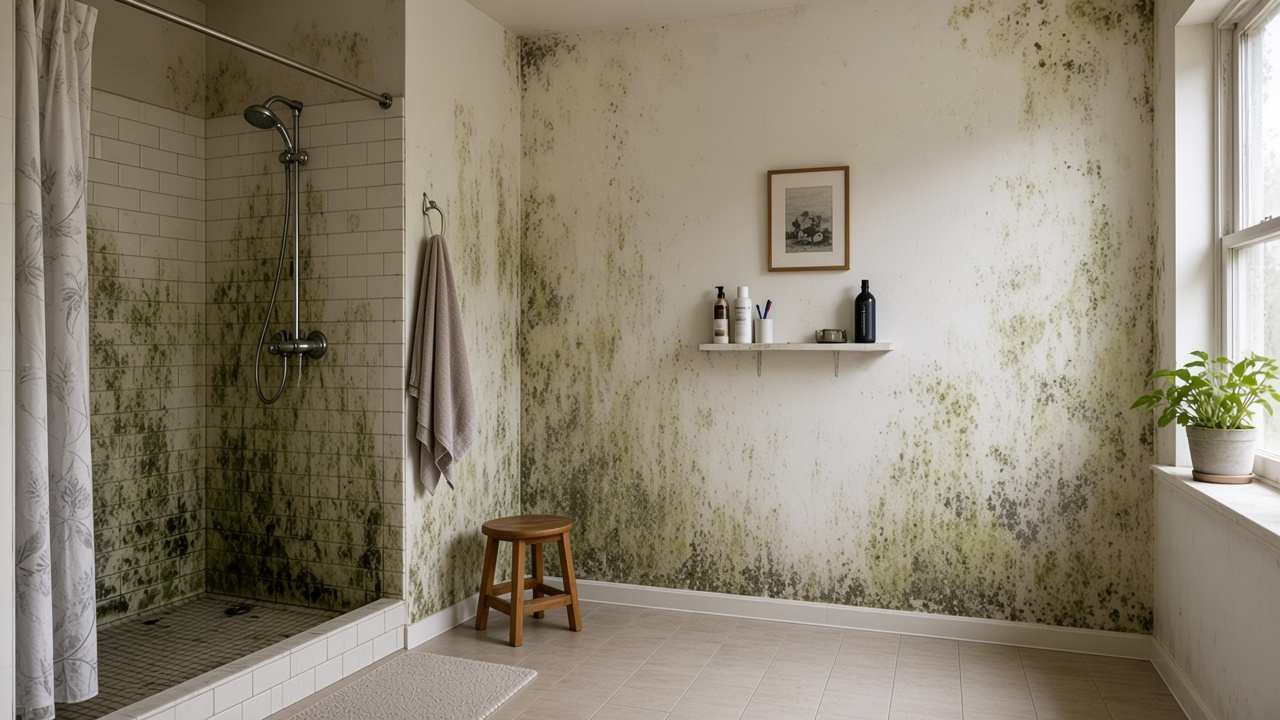
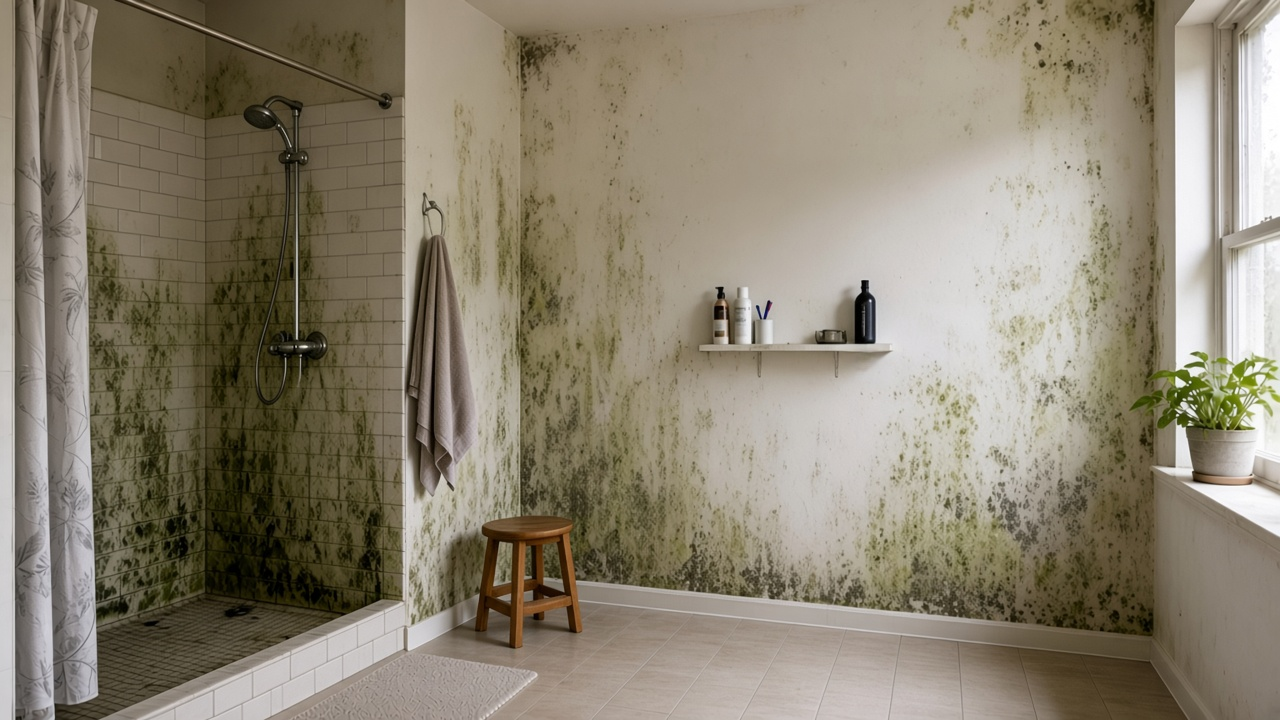
Wash the Welcome wall instead of glowing the copy, drop the framed print from the background, and even out the hero tags on phones.

diff --git a/freshguardnewdesign/assets/css/main.css b/freshguardnewdesign/assets/css/main.css
@@ -282,7 +282,15 @@
     .about {
       position: relative;
       overflow: hidden;
-      background: url("../images/fg2-welcome-bg.jpg") 72% center / cover no-repeat;
+      background: url("../images/fg2-welcome-bg.jpg?v=2") 72% center / cover no-repeat;
+    }
+    .about::before {
+      content: "";
+      position: absolute;
+      inset: 0;
+      background: rgba(255, 255, 255, 0.42);
+      pointer-events: none;
+      z-index: 0;
     }
     .about-grid {
       position: relative;
@@ -308,11 +316,7 @@
     }
     .about-media img { width: 100%; height: 100%; object-fit: cover; }
     .about-copy {
-      filter:
-        drop-shadow(0 0 1px #fff)
-        drop-shadow(0 0 6px #fff)
-        drop-shadow(0 0 16px #fff)
-        drop-shadow(0 0 28px rgba(255,255,255,.95));
+      max-width: none;
     }
     .about-copy h2 {
       font-size: clamp(32px, 4vw, 44px);
@@ -1114,7 +1118,20 @@
       .hero p { font-size: 15px; margin-bottom: 22px; }
       .hero-actions { gap: 10px; }
       .hero-actions .btn { width: 100%; }
-      .tags { gap: 6px; }
+      .tags {
+        display: grid;
+        grid-template-columns: 1fr 1fr;
+        gap: 8px;
+        width: 100%;
+      }
+      .tag {
+        width: 100%;
+        box-sizing: border-box;
+        display: flex;
+        align-items: center;
+        justify-content: center;
+        text-align: center;
+      }
 
       .stats { padding: 24px 0 28px; }
       .stats-row { grid-template-columns: 1fr; gap: 12px; }

diff --git a/freshguard.html b/freshguard.html
@@ -293,7 +293,15 @@
     .about {
       position: relative;
       overflow: hidden;
-      background: url("assets/fg2-welcome-bg.jpg") 72% center / cover no-repeat;
+      background: url("assets/fg2-welcome-bg.jpg?v=2") 72% center / cover no-repeat;
+    }
+    .about::before {
+      content: "";
+      position: absolute;
+      inset: 0;
+      background: rgba(255, 255, 255, 0.42);
+      pointer-events: none;
+      z-index: 0;
     }
     .about-grid {
       position: relative;
@@ -319,11 +327,7 @@
     }
     .about-media img { width: 100%; height: 100%; object-fit: cover; }
     .about-copy {
-      filter:
-        drop-shadow(0 0 1px #fff)
-        drop-shadow(0 0 6px #fff)
-        drop-shadow(0 0 16px #fff)
-        drop-shadow(0 0 28px rgba(255,255,255,.95));
+      max-width: none;
     }
     .about-copy h2 {
       font-size: clamp(32px, 4vw, 44px);
@@ -1125,7 +1129,20 @@
       .hero p { font-size: 15px; margin-bottom: 22px; }
       .hero-actions { gap: 10px; }
       .hero-actions .btn { width: 100%; }
-      .tags { gap: 6px; }
+      .tags {
+        display: grid;
+        grid-template-columns: 1fr 1fr;
+        gap: 8px;
+        width: 100%;
+      }
+      .tag {
+        width: 100%;
+        box-sizing: border-box;
+        display: flex;
+        align-items: center;
+        justify-content: center;
+        text-align: center;
+      }
 
       .stats { padding: 24px 0 28px; }
       .stats-row { grid-template-columns: 1fr; gap: 12px; }

diff --git a/freshguardnewdesign/assets/css/wp-fix.css b/freshguardnewdesign/assets/css/wp-fix.css
@@ -131,6 +131,18 @@ html body.theme-freshguard-new .stat strong {
   font-weight: 700 !important;
 }
 
+html body.theme-freshguard-new .about::before {
+  content: "" !important;
+  position: absolute !important;
+  inset: 0 !important;
+  background: rgba(255, 255, 255, 0.42) !important;
+  pointer-events: none !important;
+  z-index: 0 !important;
+}
+html body.theme-freshguard-new .about-copy {
+  filter: none !important;
+}
+
 .site,
 .site-content,
 #content,
@@ -456,6 +468,21 @@ html body.theme-freshguard-new article.art img {
   html body.theme-freshguard-new .logo img {
     height: 40px !important;
     max-height: 40px !important;
+  }
+  html body.theme-freshguard-new .tags {
+    display: grid !important;
+    grid-template-columns: 1fr 1fr !important;
+    gap: 8px !important;
+    width: 100% !important;
+  }
+  html body.theme-freshguard-new .tag,
+  html body.theme-freshguard-new .hero .tag {
+    width: 100% !important;
+    box-sizing: border-box !important;
+    display: flex !important;
+    align-items: center !important;
+    justify-content: center !important;
+    text-align: center !important;
   }
   html body.theme-freshguard-new .service-grid,
   html body.theme-freshguard-new .art-grid,

diff --git a/freshguardnewdesign/style.css b/freshguardnewdesign/style.css
@@ -3,7 +3,7 @@ Theme Name: FreshGuard New Design
 Theme URI: https://en.freshguard.nl/
 Author: FreshGuard
 Description: Exact WordPress/Elementor copy of freshguard.html — lime palette, problem-focused images, matching layout, motion, and responsiveness.
-Version: 1.0.22
+Version: 1.0.25
 Requires at least: 6.0
 Requires PHP: 7.4
 Text Domain: freshguardnewdesign

diff --git a/freshguardnewdesign/functions.php b/freshguardnewdesign/functions.php
@@ -2,7 +2,7 @@
 if ( ! defined( 'ABSPATH' ) ) {
 	exit;
 }
-define( 'FGN_VERSION', '1.0.22' );
+define( 'FGN_VERSION', '1.0.25' );
 define( 'FGN_DIR', get_template_directory() );
 define( 'FGN_URI', get_template_directory_uri() );
 require_once FGN_DIR . '/inc/helpers.php';
